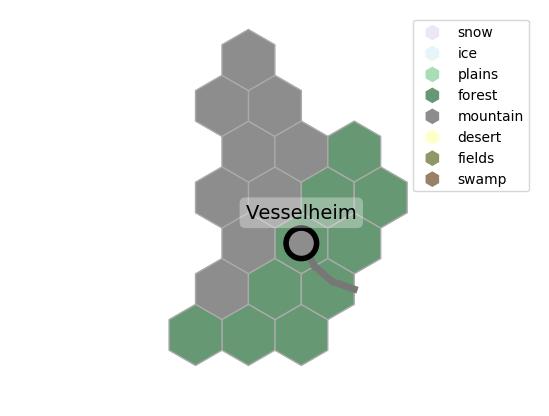
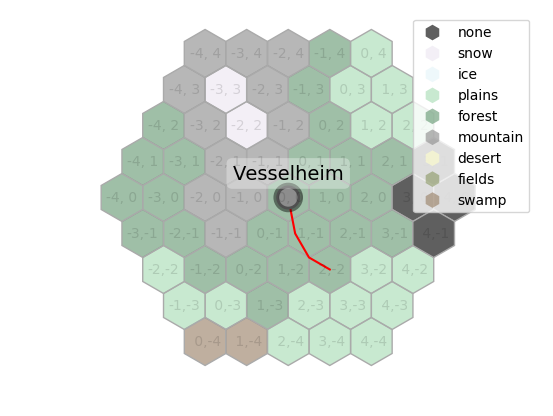
change plotting to be handled by hexes, add hexmap-class for paths

diff --git a/calc.py b/calc.py
@@ -6,6 +6,7 @@ import json
 from hexagon import *
 
 settlements = []
+hexmap = hexmap()
 
 #hexes
 data2 = pd.read_csv('testmap.csv', sep=',')
@@ -21,27 +22,30 @@ for i,e in data.iterrows():
         if e[side] == True:
             connected_sides.append(int(side))
 
-    if len(connected_sides) == 1:
-        corner_pos_1 = active_hex.hex_corner(connected_sides[0])
-        corner_pos_2 = active_hex.hex_corner(connected_sides[0]+1)
-        s = data2.loc[(data2['q'] == e['q']) & (data2['r'] == e['r'])]
-        if (s.shape[0]) == 1:
-            x_mod = (active_hex.get_x_pos() + (corner_pos_1[0]+corner_pos_2[0])/2)/2
-            y_mod = (active_hex.get_y_pos() + (corner_pos_1[1]+corner_pos_2[1])/2)/2
+    if len(connected_sides) == 1 or len(connected_sides) >= 3:
 
-        else:
-            x_mod = active_hex.get_x_pos()
-            y_mod = active_hex.get_y_pos()
+        for cs in connected_sides:
+            #print(active_hex.hex_side(cs))
+            s = data2.loc[(data2['q'] == e['q']) & (data2['r'] == e['r'])]
 
-        plt.plot(
-            [x_mod, active_hex.hex_side(connected_sides[0])[0]],
-            [y_mod, active_hex.hex_side(connected_sides[0])[1]],
-            lw = 5,
-            c = '#777777',
-            zorder = 1
-        )
+            if (s.shape[0]) == 1:
+                x_mod = (active_hex.get_x_pos() + active_hex.hex_side(cs)[0]) / 2
+                y_mod = (active_hex.get_y_pos() + active_hex.hex_side(cs)[1]) / 2
+
+            else:
+                x_mod = active_hex.get_x_pos()
+                y_mod = active_hex.get_y_pos()
+
+            # plt.plot(
+            #     [x_mod, active_hex.hex_side(cs)[0]],
+            #     [y_mod, active_hex.hex_side(cs)[1]],
+            #     lw = 5,
+            #     c = '#777777',
+            #     zorder = 1
+            # )
+
     if len(connected_sides) == 2:
-        print(connected_sides)
+        #print(connected_sides)
 
         side1_pos = active_hex.hex_side(connected_sides[0])
         side2_pos = active_hex.hex_side(connected_sides[1])
@@ -52,51 +56,37 @@ for i,e in data.iterrows():
             (side1_pos[1]+side2_pos[1]+midpoint[1])/3
         ]
 
-        plt.plot(
-            [side1_pos[0], tripoint[0], side2_pos[0]],
-            [side1_pos[1], tripoint[1], side2_pos[1]],
-            lw = 5,
-            c = '#777777',
-            zorder = 1
-        )
+        # plt.plot(
+        #     [side1_pos[0], tripoint[0], side2_pos[0]],
+        #     [side1_pos[1], tripoint[1], side2_pos[1]],
+        #     lw = 5,
+        #     c = '#777777',
+        #     zorder = 1
+        # )
 
 
-qlim = [0,0]
-rlim = [0,0]
 for i,e in data2.iterrows():
-    hgrid = hex(e['q'],e['r'], c=('plains' if e['c'] == '' else e['c']))
-    #print(e)
-    plt.gca().add_patch(hgrid.to_poly())
+    hgrid = hex(
+        e['q'],
+        e['r'],
+        c=('plains' if e['c'] == '' else e['c']),
+        settlement=e['settlement'],
+        name=e['name'],
+        road=(False if e['road'] != True else True)
+    )
+    # to be removed in future
+    hgrid.plot()
+    hexmap.add(hgrid)
 
+xy = np.array(hexmap.get_road_pos()).T
+sxy = np.empty(xy.shape)
+sxy[0] = xy[0]
+sxy[xy.shape[0]-1] = xy[xy.shape[0]-1]
+for i in np.arange(1,xy.shape[0]-1):
+     sxy[i] = (xy[i-1]+xy[i]+xy[i+1])/3
 
-    # settlements
-    if isinstance(e['settlement'], str):
-        t = e['settlement']
-        print(t)
-        plt.gca().add_patch(
-            plt.Circle(
-                (hgrid.get_x_pos(), hgrid.get_y_pos()),
-                settlement_types[t]['size']/2,
-                fc=settlement_types[t]['fc'],
-                lw=4,
-                aa=True,
-                fill = True,
-                ec=settlement_types[t]['ec'],
-                zorder = 2
-            )
-        )
-        plt.annotate(
-            e['name'],
-            xy = (hgrid.get_x_pos(), hgrid.get_y_pos()),
-            fontsize = 14,
-            xytext=(0,1),
-            ha = 'center',
-            va = 'center',
-            bbox=dict(boxstyle="round", fc="#ffffff55", ec='#ffffff00')
-        )
-        settlements.append(hgrid)
-
-
+print(sxy, xy)
+plt.plot(sxy[:,0],sxy[:,1], c='r', zorder=1)
 
 
 plt.axis('equal') # fit to plotted hexes

diff --git a/hexagon.py b/hexagon.py
@@ -2,20 +2,21 @@ import numpy as np
 import matplotlib.pyplot as plt
 
 terrain_colors = {
-    'snow':'#ece7f2',
-    'ice':'#e5f5f9',
-    'plains':'#a8ddb5',
-    'forest':'#669973',
-    'mountain':'#8d8d8d',
-    'desert':'#ffffcc',
-    'fields':'#8c9966',
-    'swamp':'#998066'
+    'none':'#000000a0',
+    'snow':'#ece7f2a0',
+    'ice':'#e5f5f9a0',
+    'plains':'#a8ddb5a0',
+    'forest':'#669973a0',
+    'mountain':'#8d8d8da0',
+    'desert':'#ffffcca0',
+    'fields':'#8c9966a0',
+    'swamp':'#998066a0'
 }
 
 settlement_types = {
     'city':{
         'size': 1,
-        'ec': '#000000ff',
+        'ec': '#00000070',
         'fc': '#8d8d8d'
     },
     'village':{
@@ -26,8 +27,14 @@ settlement_types = {
 }
 
 class hex(object):
-    def __init__(self, x1=0, x2=0, s=1, c='plains'):
-        self.x1, self.x2, self.s, self.c = x1,x2,s,c
+    def __init__(self, x1, x2, s=1, c='plains', settlement=None, name=None, road=False):
+        self.x1 = x1
+        self.x2 = x2
+        self.s = s
+        self.c = c
+        self.settlement = settlement
+        self.name = name
+        self.road = road
 
     def get_x_pos(self):
         return (self.x1+self.x2/2) * np.sqrt(3) * self.s
@@ -35,8 +42,14 @@ class hex(object):
     def get_y_pos(self):
         return self.x2 * 3 / 2 * self.s
 
+    def get_pos(self):
+        return (self.get_x_pos(), self.get_y_pos())
+
+    def get_coord(self):
+        return (self.x1, self.x2)
+
     def hex_corner(self, i):
-        angle_deg = 60 * i +30
+        angle_deg = 60 * i + 30
         angle_rad = np.pi / 180 * angle_deg
         return [
             self.get_x_pos() + self.s * np.cos(angle_rad),
@@ -45,8 +58,11 @@ class hex(object):
 
     def hex_side(self, i):
         s1 = self.hex_corner(i)
-        s2 = self.hex_corner(i+1)
-        return [(s1[0]+s2[0])/2, (s1[1]+s2[1])/2]
+        s2 = self.hex_corner(i + 1)
+        return [
+            (s1[0]+s2[0])/2,
+            (s1[1]+s2[1])/2
+        ]
 
     def to_poly_list(self):
         pts = [self.hex_corner(i) for i in range(0,6)]
@@ -68,3 +84,60 @@ class hex(object):
                     +abs(self.x2 - self.x2)
                     +abs(-self.x1-self.x2+hex.x1+hex.x2)
                 )/2
+
+    def plot(self):
+        plt.gca().add_patch(self.to_poly())
+        plt.annotate(
+            "{:2},{:2}".format(self.x1,self.x2),
+            xy = (self.get_x_pos(), self.get_y_pos()),
+            ha = 'center',
+            va = 'center',
+            color = '#00000020'
+        )
+
+        # settlements
+        if isinstance(self.settlement, str):
+            plt.gca().add_patch(
+                plt.Circle(
+                    (self.get_x_pos(), self.get_y_pos()),
+                    settlement_types[self.settlement]['size']/2,
+                    fc=settlement_types[self.settlement]['fc'],
+                    lw=4,
+                    aa=True,
+                    fill = True,
+                    ec=settlement_types[self.settlement]['ec'],
+                    zorder = 2
+                )
+            )
+            plt.annotate(
+                self.name,
+                xy = (self.get_x_pos(), self.get_y_pos()),
+                fontsize = 14,
+                xytext=(0,1),
+                ha = 'center',
+                va = 'center',
+                bbox=dict(boxstyle="round", fc="#ffffff55", ec='#ffffff00')
+            )
+
+
+class hexmap(object):
+    def __init__(self, hlist=[]):
+        self.hexlist = hlist
+        self.roadlist = []
+
+    def add(self, gridpoint: hex):
+        self.hexlist.append(gridpoint)
+        if gridpoint.road:
+            pos = gridpoint.get_pos()
+            coord = gridpoint.get_coord()
+            self.roadlist.append([coord, pos])
+            #print("added road at pos {}, with coordinates {}".format(pos,coord))
+
+    def get_road_pos(self):
+        x = []
+        y = []
+        for e in self.roadlist:
+            x.append(e[1][0])
+            y.append(e[1][1])
+
+        return (x,y)
